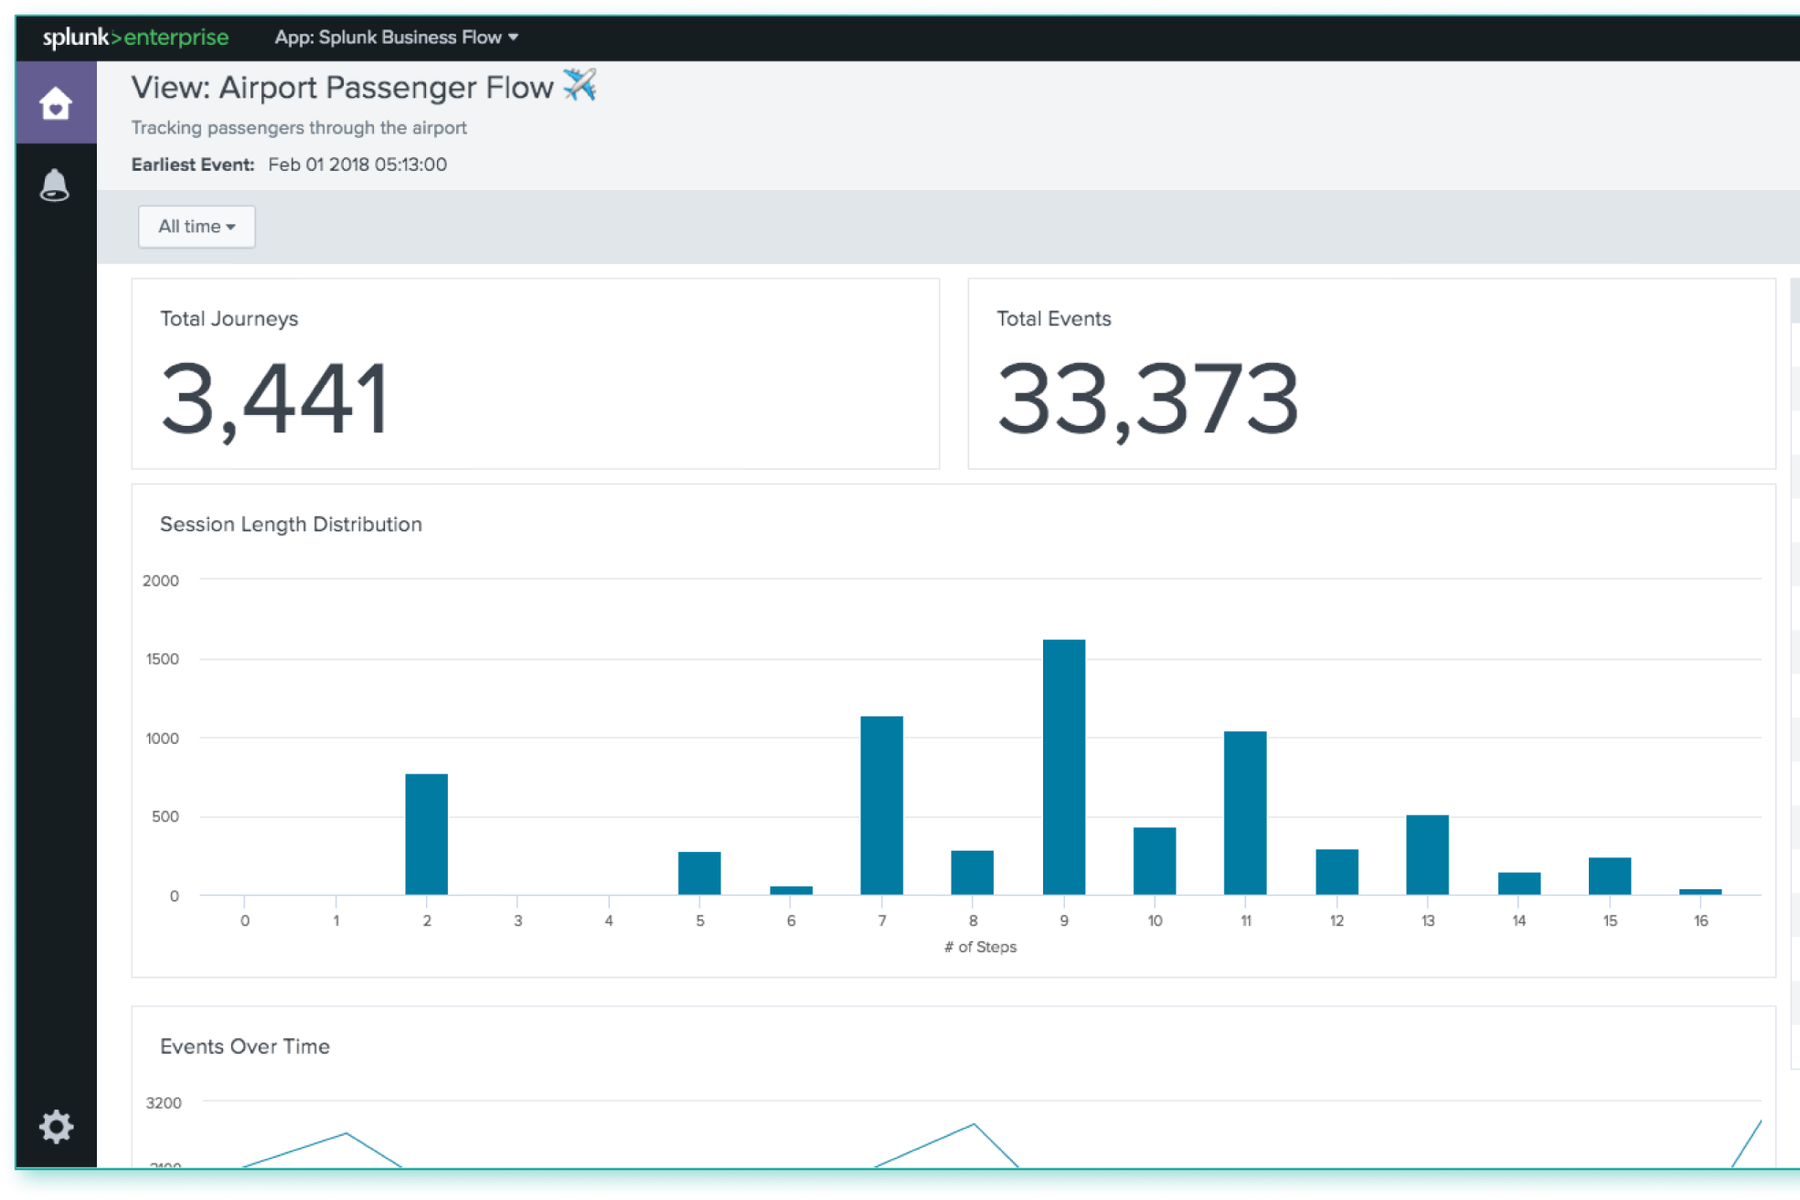
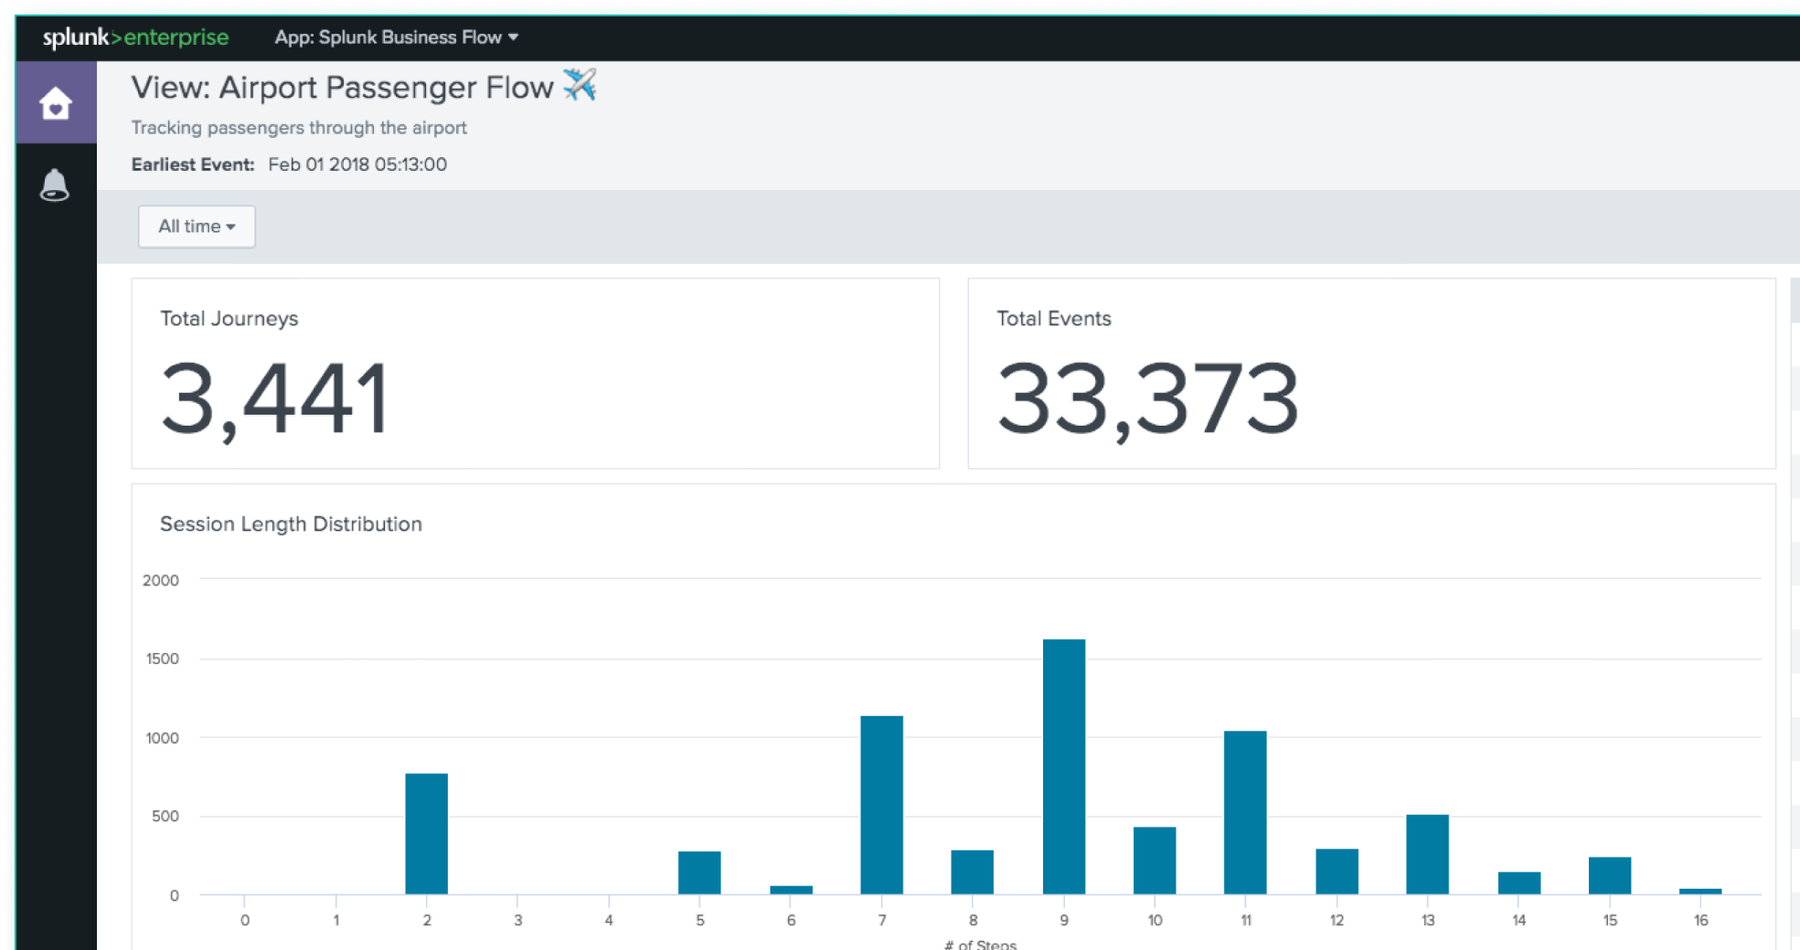
fix: SBF step 1 — clean image crop, remove drop shadow

diff --git a/index.html b/index.html
@@ -697,10 +697,13 @@ const CASES = [
     overview: "I designed Splunk Business Flow — Splunk's first process mining product for business analysts, outside its traditional IT and Security market. A single workshop pivoted our entire direction from flexible dashboards to pre-canned bottleneck reports.",
     role: "Product Designer — Process Mining, Business Analytics",
     period: "2019 – 2020",
-    bg: { wide: ["IT & Security", "Data Modelers", "Business Analysts"], focus: "Business Analysts", focusSub: "Splunk's first venture into business analytics",
-          background: "Splunk Business Flow (SBF) was Splunk's push beyond IT and Security — a process mining product that let business users visualize workflows and discover bottlenecks without writing a single query.",
-          problem: "The Overview dashboard only showed totals: journey count, average duration. Users had no actionable place to start." },
-    start: { heading: "The Overview page had no traffic.", body: "Users landed on a dashboard of totals — journey counts and session distributions — but never stayed. We needed to rethink what they actually wanted to see and which key moments deserved a dedicated view.", img: "assets/sbf-overview.png", cap: "The original Overview dashboard — totals with no actionable starting point" },
+    bg: { chart: true, chartImg: 'assets/sbf-overview.png',
+          chartCap: "The original Overview dashboard — totals with no actionable starting point",
+          heading: "The Overview page had no traffic.",
+          background: "Splunk Business Flow launched with an Overview dashboard — total journeys, total events, session distributions. But users never stayed. There was no clear next step, and no answer to the question that actually mattered: what should I look at first?",
+          problemHeadline: "What do people actually want to monitor?",
+          bullets: ["The dashboard only showed totals — journey count and duration averages", "No actionable starting point; users had nowhere meaningful to go"] },
+    start: { heading: "We started building a flexible, customizable dashboard.", body: "Inspired by tools like Tableau and Chartio, we designed a system where users could add their own metric panels, configure thresholds, and save custom layouts.", gif: "assets/demo_v8b_hd.gif", cap: "First iteration: step-by-step configuration panel for custom dashboard setup" },
     turn: { heading: "A workshop in February changed everything.", before: "At the February 2020 all-hands, our EMEA sales lead stopped the room with one observation that cut through all the design work we'd done.", signalImgL: "assets/sbf-confused-analyst.png", coverL: true, labelL: "THE PROBLEM", capL: "Business analysts are not familiar with customized dashboard configuration.", svgR: "img-placeholder", labelR: "THE INSIGHT", capR: "Business analysts prefer a pre-canned template with easy apply.", capRStyle: "green" },
     conclusion: { heading: "One bottleneck report. No setup required.", body: "We shipped a pre-canned Bottleneck Report — surfacing the steps with the largest duration increase, with outlier journeys highlighted and a path to drill in. Insight on first load, customization available when needed.", img: "assets/sbf-v2-bottleneck.png", cap: "The Bottleneck Report — insight on first load, no configuration needed", layout: 'stack' },
     evaluation: { heading: "What it returned.", gif: "assets/splunk_sbf_v2b.gif", stats: [["4+ Stars", ".conf 2020 satisfaction"], ["#4", "Ranked in .conf survey"], ["3", "User types served"], ["1Q", "From workshop pivot to MVP"]], learning: "The lesson: a technically correct solution can still miss the mark. Business users needed insight on load — not a blank canvas to configure." },
@@ -1421,7 +1424,7 @@ function pageBg(c) {
       '<div class="p-h">' + c.bg.heading + '</div>' +
       '<p class="p-b" style="max-width:none">' + c.bg.background + '</p>' +
       '<div class="bg-split">' +
-      '<div class="bg-split-chart">' + ({infra: INFRA_COMPLEXITY_SVG, uda: UDA_FRAGMENTATION_SVG, hitl: HITL_CONTEXT_SVG, cust: CUSTOMER_AI_SVG}[c.bg.chartSvg] || OPPTYGAP_SVG) + '</div>' +
+      '<div class="bg-split-chart">' + (c.bg.chartImg ? '<img src="' + c.bg.chartImg + '" style="width:100%;border-radius:12px;display:block">' : ({infra: INFRA_COMPLEXITY_SVG, uda: UDA_FRAGMENTATION_SVG, hitl: HITL_CONTEXT_SVG, cust: CUSTOMER_AI_SVG}[c.bg.chartSvg] || OPPTYGAP_SVG)) + '</div>' +
       '<div class="bg-split-arrow">' + arrowSVG + '</div>' +
       '<div class="bg-split-problem">' +
       '<div class="bg-prob-label">The problem</div>' +